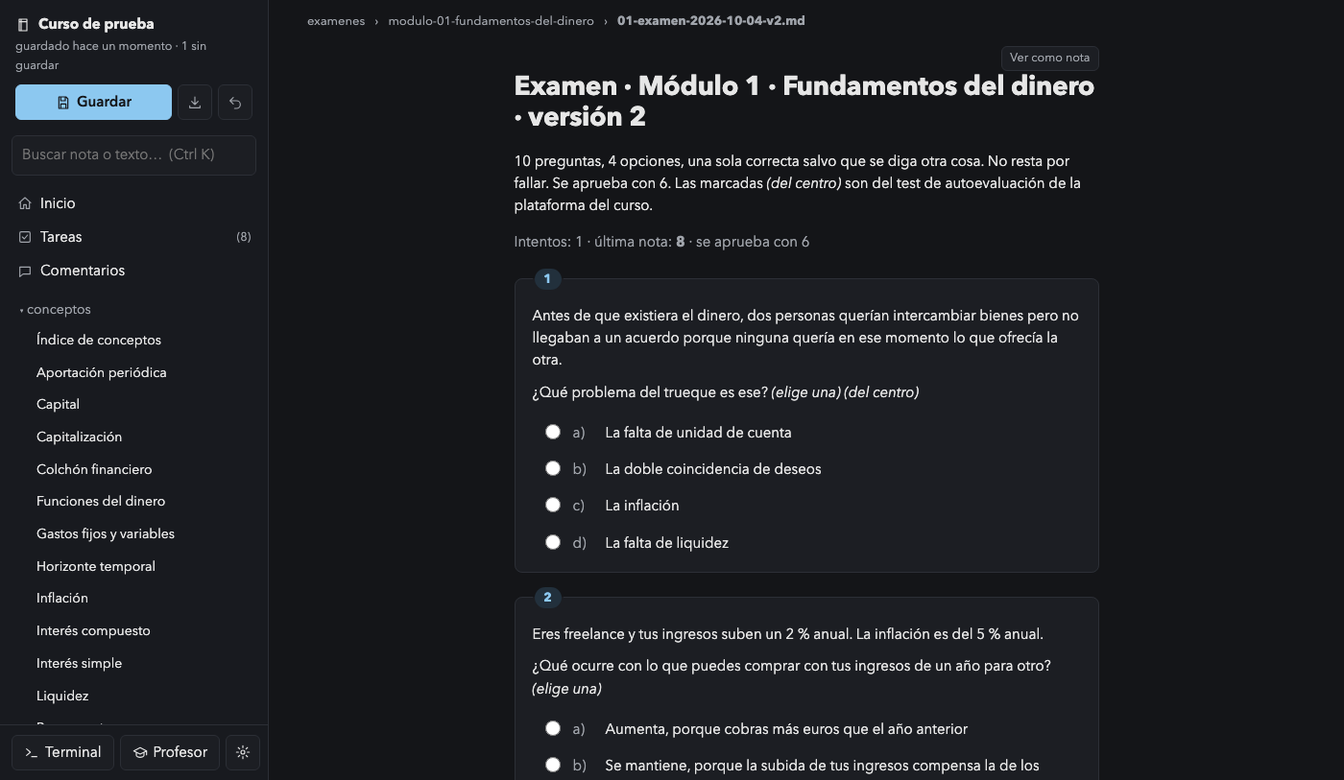
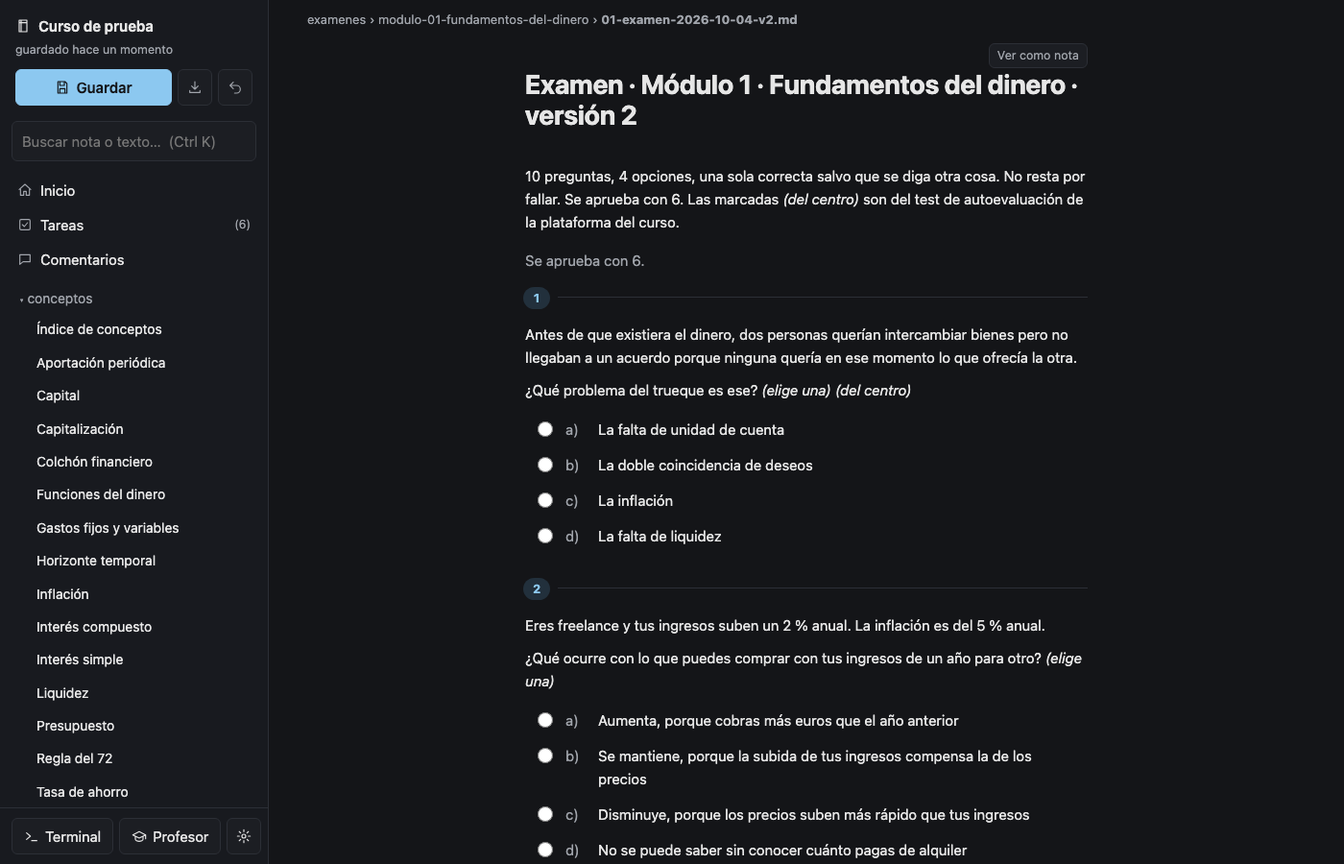
Fase 6, cierre tras la ronda de abogado del diablo
Siete objeciones atendidas: el acortado de rutas en Tareas solo toca rutas de
notas del cuaderno (rompía «50/30/20», fechas y URL; con test); el corte de
textos era de pendientes.md del kit, no de la app; fuente del sistema en vez de
Avenir Next (decisión de Roberto, texto apelmazado); Destapar discreto y una
sola acción rellena por pantalla; paleta clara neutra fuera del crema genérico,
preguntas del examen con reglas y no cajas, columna de 62 ch, sin puntos medios
ni flechas en los textos de la app; cajón móvil fuera del orden de Tab y con
Esc; seis pantallas más sondeadas y capturadas (buscador, editor, guardar,
ajustes, terminal, resultado) con el viewport exacto. Botón del examen:
«Corregir». 0 fallos de contraste en 15 pantallas y dos temas.

diff --git a/public/app.js b/public/app.js
@@ -23,13 +23,13 @@ const icono = n => `<svg class="icono" aria-hidden="true"><use href="#i-${n}"/><
 let titulos = {};   // ruta → título (# …) de cada nota, para enseñar títulos y no nombres de fichero
 const tituloDe = p => titulos[p] || nombreNota(p);
 // Carpeta del kit «modulo-01-fundamentos-del-dinero» o «1.1-el-dinero-y-sus-funciones»: el número separado del nombre
-const nombreCarpeta = k => { const m = k.match(/^((?:modulo|m|bloque|semana|tema|unidad)-?\d+|\d+(?:\.\d+)*)-(.+)$/i); return m ? `${m[1]} · ${m[2].replace(/-/g, ' ')}` : k; };
+const nombreCarpeta = k => { const m = k.match(/^((?:modulo|m|bloque|semana|tema|unidad)-?\d+|\d+(?:\.\d+)*)-(.+)$/i); return m ? `<span class="num">${esc(m[1])}</span> ${esc(m[2].replace(/-/g, ' '))}` : esc(k); };
 
 // ---------- árbol
 function pintarArbol(lista) {
   const raiz = {};
   for (const p of lista) { let n = raiz; const partes = p.split('/'); partes.forEach((s, i) => { if (i === partes.length - 1) (n.__f ??= []).push(p); else n = (n[s] ??= {}); }); }
-  const pintar = (n, abierto) => Object.keys(n).filter(k => k !== '__f').sort((a, b) => a.localeCompare(b, 'es')).map(k => `<details${abierto ? ' open' : ''}><summary title="${esc(k)}">${esc(nombreCarpeta(k))}</summary>${pintar(n[k], false)}</details>`).join('')
+  const pintar = (n, abierto) => Object.keys(n).filter(k => k !== '__f').sort((a, b) => a.localeCompare(b, 'es')).map(k => `<details${abierto ? ' open' : ''}><summary title="${esc(k)}">${nombreCarpeta(k)}</summary>${pintar(n[k], false)}</details>`).join('')
     + (n.__f || []).map(p => `<a class="hoja" href="#/n/${encodeURI(p)}" data-ruta="${esc(p)}" title="${esc(p)}">${esc(tituloDe(p))}</a>`).join('');
   $('#arbol').innerHTML = lista.length ? pintar(raiz, true) : '<p class="vacio">No hay notas en esta carpeta.</p>';
   marcarActiva();
@@ -112,11 +112,11 @@ const verComoNota = ruta => `<p class="cambiar-vista"><button type="button" clas
 async function abrirExamen(ruta) {
   let ex; try { ex = await api(`/api/examen?p=${encodeURIComponent(ruta)}`); } catch (e) { $('#nota').innerHTML = `<p>${esc(e.message)}</p>`; return; }
   const fm = ex.frontmatter || {};
-  const estado = fm.intentos && String(fm.intentos) !== '0' ? `<p class="resumen">Intentos: ${esc(fm.intentos)}${fm.nota !== '' && fm.nota != null ? ` · última nota: <b>${esc(fm.nota)}</b>` : ''}${fm.aprobado ? ` · se aprueba con ${esc(fm.aprobado)}` : ''}</p>` : (fm.aprobado ? `<p class="resumen">Se aprueba con ${esc(fm.aprobado)}.</p>` : '');
+  const estado = fm.intentos && String(fm.intentos) !== '0' ? `<p class="resumen">Intentos: ${esc(fm.intentos)}${fm.nota !== '' && fm.nota != null ? `. Última nota: <b>${esc(fm.nota)}</b>` : ''}${fm.aprobado ? `. Se aprueba con ${esc(fm.aprobado)}` : ''}.</p>` : (fm.aprobado ? `<p class="resumen">Se aprueba con ${esc(fm.aprobado)}.</p>` : '');
   const form = ex.preguntas.map(q => `<fieldset class="pregunta" data-numero="${q.numero}"><legend><span class="numero">${q.numero}</span></legend><div class="enunciado">${q.enunciado}</div>${q.opciones.map(o => `<label class="opcion"><input type="${q.unica ? 'radio' : 'checkbox'}" name="p${q.numero}" value="${o.letra}"${o.marcada ? ' checked' : ''}><span class="letra">${o.letra})</span><span>${o.texto}</span></label>`).join('')}</fieldset>`).join('');
-  const pie = ex.validable ? '<button type="submit" id="validar">Validar</button><span class="pista">Guarda tus respuestas en la nota y las corrige con la herramienta del kit</span>'
+  const pie = ex.validable ? '<button type="submit" id="validar">Corregir</button><span class="pista">Guarda tus respuestas en la nota y las corrige con la herramienta del kit</span>'
     : `<button type="submit" id="validar" class="secundario">Guardar respuestas</button><span class="pista">${esc(ex.motivo || '')}</span>`;
-  $('#nota').innerHTML = `${verComoNota(ruta)}${ex.cabecera}${estado}<form id="examen" class="examen">${form}<footer class="examen-pie">${pie}</footer></form>${ex.resto ? `<section class="historico">${ex.resto}</section>` : ''}`;
+  $('#nota').innerHTML = `${verComoNota(ruta)}${ex.cabecera}${estado}<form id="examen" class="examen">${form}<div class="examen-pie">${pie}</div></form>${ex.resto ? `<section class="historico">${ex.resto}</section>` : ''}`;
   $('#nota').querySelectorAll('.math').forEach(el => { try { katex.render(el.textContent, el, { displayMode: el.dataset.display === '1', throwOnError: false }); } catch { /* texto */ } });
   $('#centro').scrollTop = 0;
   $('#examen').addEventListener('submit', async e => {
@@ -124,12 +124,12 @@ async function abrirExamen(ruta) {
     const respuestas = {};
     for (const f of $('#examen').querySelectorAll('fieldset')) respuestas[f.dataset.numero] = [...f.querySelectorAll('input:checked')].map(i => i.value);
     const sinContestar = Object.values(respuestas).filter(v => !v.length).length;
-    if (ex.validable && sinContestar && !confirm(`Hay ${sinContestar} pregunta${sinContestar === 1 ? '' : 's'} sin contestar. ¿Validar igualmente?`)) return;
+    if (ex.validable && sinContestar && !confirm(`Hay ${sinContestar} pregunta${sinContestar === 1 ? '' : 's'} sin contestar. ¿Corregir igualmente?`)) return;
     $('#validar').disabled = true; avisar(ex.validable ? 'Corrigiendo…' : 'Guardando…');
     let r; try { r = await api('/api/examen/validar', { ruta, respuestas }); } catch (err) { r = { codigo: 1, salida: err.message }; }
     await refrescarInfo(); refrescarContadores();
     abrirNota(ruta);
-    mostrarResultado(r.corregido ? 'Examen validado' : 'Respuestas guardadas', r);
+    mostrarResultado(r.corregido ? 'Examen corregido' : 'Respuestas guardadas', r);
   });
 }
 $('#nota').addEventListener('click', e => { const a = e.target.closest('[data-vista-nota]'); if (!a) return; e.preventDefault(); vistaNota = a.dataset.vistaNota; abrirNota(vistaNota); });
@@ -147,14 +147,14 @@ function pintarTarjeta() {
   const s = tarjetasEstado, n = s.tarjetas.length, i = s.indice, t = s.tarjetas[i];
   const sabidas = s.tarjetas.filter(x => x.sabia === true).length, falladas = s.tarjetas.filter(x => x.sabia === false).length;
   const marca = t.sabia === true ? '<span class="marca ok">✅ la sabías</span>' : t.sabia === false ? '<span class="marca mal">❌ no la sabías</span>' : '';
-  $('#nota').innerHTML = `${verComoNota(s.ruta)}<h1>${esc(s.titulo)}</h1><p class="resumen">${n} tarjetas · ${sabidas} sabidas · ${falladas} falladas</p>
+  $('#nota').innerHTML = `${verComoNota(s.ruta)}<h1>${esc(s.titulo)}</h1><p class="resumen">${n} tarjetas: ${sabidas} sabidas, ${falladas} falladas</p>
     <section class="tarjeta" aria-live="polite">
       <div class="cabecera"><span>Tarjeta ${i + 1} de ${n}</span>${marca}</div>
       <div class="pregunta-tarjeta">${t.pregunta}</div>
       ${s.destapada ? `<div class="respuesta-tarjeta">${t.respuesta}</div><div class="botones"><button type="button" data-tarjeta="sabia">✅ La sabía</button><button type="button" data-tarjeta="no-sabia" class="secundario">❌ No la sabía</button></div>`
       : '<div class="botones"><button type="button" data-tarjeta="destapar">Destapar</button></div>'}
-      <div class="pie"><button type="button" class="secundario pequeno" data-tarjeta="anterior"${i === 0 ? ' disabled' : ''}>← Anterior</button><span class="pista">${esc(t.info)}</span><button type="button" class="secundario pequeno" data-tarjeta="siguiente"${i === n - 1 ? ' disabled' : ''}>Siguiente →</button></div>
-    </section><p class="pista">Espacio destapa · 1 la sabía · 2 no la sabía · ← → cambian de tarjeta</p>`;
+      <div class="pie"><button type="button" class="secundario pequeno" data-tarjeta="anterior"${i === 0 ? ' disabled' : ''}>Anterior</button><span class="pista">${esc(t.info)}</span><button type="button" class="secundario pequeno" data-tarjeta="siguiente"${i === n - 1 ? ' disabled' : ''}>Siguiente</button></div>
+    </section><p class="pista">Teclado: espacio destapa, 1 la sabía, 2 no la sabía, flechas para cambiar de tarjeta</p>`;
   $('#nota').querySelectorAll('.math').forEach(el => { try { katex.render(el.textContent, el, { displayMode: el.dataset.display === '1', throwOnError: false }); } catch { /* texto */ } });
   const principal = $('#nota [data-tarjeta="destapar"], #nota [data-tarjeta="sabia"]'); if (principal) principal.focus();
 }
@@ -234,7 +234,7 @@ function abrirTerminal(modo) {
     fit = new FitAddon.FitAddon(); term.loadAddon(fit); term.open($('#terminal'));
     ws = new WebSocket(wsUrl(modo === 'profesor' ? '/pty?profesor=1' : '/pty'));
     ws.onmessage = e => term.write(e.data);
-    ws.onclose = () => term && term.write('\r\n\x1b[90m[terminal cerrada]\x1b[0m\r\n');
+    ws.onclose = () => term && term.write('\r\n[terminal cerrada]\r\n');
     term.onData(d => ws.readyState === 1 && ws.send(d));
     const redim = () => { fit.fit(); ws.readyState === 1 && ws.send('\u0001' + JSON.stringify({ cols: term.cols, rows: term.rows })); };
     ws.onopen = redim; new ResizeObserver(redim).observe($('#terminal'));
@@ -249,7 +249,7 @@ $('#btn-profesor').onclick = () => abrirTerminal('profesor');
 
 // ---------- cuadernos (pantalla de inicio)
 const hace = iso => { if (!iso) return 'nunca'; const d = (Date.now() - new Date(iso)) / 864e5; if (d < 1 / 24) return 'hace un momento'; if (d < 1) return `hace ${Math.round(d * 24)} h`; if (d < 30) return `hace ${Math.round(d)} día${Math.round(d) === 1 ? '' : 's'}`; return `el ${new Date(iso).toLocaleDateString('es')}`; };
-const textoGit = g => !g ? 'sin repositorio' : `guardado ${hace(g.ultimo)}${g.cambios ? ` · ${g.cambios} sin guardar` : ''}${g.sinSubir ? ` · ${g.sinSubir} sin subir` : ''}`;
+const textoGit = g => !g ? 'sin repositorio' : `guardado ${hace(g.ultimo)}${g.cambios ? `, ${g.cambios} sin guardar` : ''}${g.sinSubir ? `, ${g.sinSubir} sin subir` : ''}`;
 async function abrirCuadernos() {
   rutaActual = null; $('#nota').hidden = true; $('#panel').hidden = false;
   $('#miga').innerHTML = '<strong>Cuadernos</strong>';
@@ -319,8 +319,10 @@ function abrirAjustes() {
 }
 function cerrarAjustes() { $('#ajustes').hidden = true; if (foco) foco.focus(); }
 $('#btn-ajustes').onclick = abrirAjustes;
-$('#btn-menu').onclick = () => { const l = $('#lateral'); l.classList.toggle('abierto'); $('#btn-menu').setAttribute('aria-expanded', l.classList.contains('abierto')); };
-$('#lateral').addEventListener('click', e => { if (e.target.closest('a') && window.innerWidth <= 760) $('#lateral').classList.remove('abierto'); });
+function cajon(abrir) { const l = $('#lateral'); l.classList.toggle('abierto', abrir); $('#btn-menu').setAttribute('aria-expanded', String(abrir)); if (!abrir && window.innerWidth <= 760) $('#btn-menu').focus(); }
+$('#btn-menu').onclick = () => cajon(!$('#lateral').classList.contains('abierto'));
+document.addEventListener('keydown', e => { if (e.key === 'Escape' && $('#lateral').classList.contains('abierto')) cajon(false); });
+$('#lateral').addEventListener('click', e => { if (e.target.closest('a') && window.innerWidth <= 760) cajon(false); });
 $('#ajustes-cerrar').onclick = cerrarAjustes;
 $('#ajustes form').addEventListener('change', async () => {
   info.configuracion = await api('/api/configuracion', { tema: $('#ajustes-tema').value, letra: $('#ajustes-letra').value, fuente: $('#ajustes-fuente').value, comando_agente: $('#ajustes-comando').value });

diff --git a/public/estilo.css b/public/estilo.css
@@ -1,12 +1,12 @@
 /* cuaderno-app · hoja de estilos. Tema: papel, tinta y un subrayador. Los tokens van por tema; el contenido manda. */
 :root {
-  --papel: #fcfbf7; --fondo: #f6f4ee; --lateral: #efece4; --tinta: #1b1b1f; --tinta-suave: #5a5e66; --linea: #e2dfd6;
+  --papel: #fbfbfc; --fondo: #f2f3f5; --lateral: #eaecef; --tinta: #1b1b1f; --tinta-suave: #5a5e66; --linea: #dcdfe4;
   --acento: #1e5a96; --acento-suave: #e3ecfa; --sobre-acento: #ffffff; --ok: #15803d; --aviso: #7a4a00; --mal: #b91c1c;
   --terminal-fondo: #1b1d23; --marca: #fff3a8;
   --c-info: var(--acento); --c-question: #6d28d9; --c-warning: var(--aviso); --c-danger: var(--mal); --c-success: var(--ok);
   --c-quote: #4b5563; --c-example: #0e7490; --c-tip: #0f766e; --c-comment: #9a3412;
   --radio: 6px; --radio-bloque: 8px;
-  --fuente: "Avenir Next", "Segoe UI Variable Text", "Segoe UI", system-ui, -apple-system, sans-serif;
+  --fuente: system-ui, -apple-system, "Segoe UI", Roboto, sans-serif;   /* la del sistema: afinada para leer en cada plataforma */
   --serif: Charter, "Iowan Old Style", "Palatino Linotype", Georgia, serif;
   --mono: "JetBrains Mono", "Fira Code", Menlo, Consolas, "DejaVu Sans Mono", monospace;
   --sombra: 0 10px 30px rgba(20, 20, 30, .12);
@@ -31,7 +31,7 @@
 
 * { box-sizing: border-box; }
 [hidden] { display: none !important; }
-html, body { margin: 0; height: 100%; background: var(--fondo); color: var(--tinta); font: 15px/1.55 var(--fuente); }
+html, body { margin: 0; height: 100%; background: var(--fondo); color: var(--tinta); font: 15px/1.6 var(--fuente); }
 :focus-visible { outline: 2px solid var(--acento); outline-offset: 2px; }
 @media (prefers-reduced-motion: no-preference) { .bloque, .respuesta-tarjeta { transition: background-color .15s ease; } }
 .oculto { position: absolute; width: 1px; height: 1px; overflow: hidden; clip: rect(0 0 0 0); white-space: nowrap; }
@@ -40,7 +40,7 @@ html, body { margin: 0; height: 100%; background: var(--fondo); color: var(--tin
 .icono { width: 16px; height: 16px; flex: none; vertical-align: -3px; fill: none; stroke: currentColor; stroke-width: 1.75; stroke-linecap: round; stroke-linejoin: round; }
 .vacio, .pista { color: var(--tinta-suave); font-size: 13px; }
 .pista { margin-right: auto; align-self: center; }
-mark { background: var(--marca); color: inherit; border-radius: 2px; }
+mark { background: var(--marca); color: var(--tinta); border-radius: 2px; }
 code, kbd { font-family: var(--mono); font-size: .88em; }
 kbd { border: 1px solid var(--linea); border-bottom-width: 2px; border-radius: 4px; padding: 0 5px; background: var(--papel); }
 
@@ -76,6 +76,7 @@ input[type="checkbox"], input[type="radio"] { accent-color: var(--acento); width
 #arbol { flex: 1; overflow: auto; padding: 4px 8px 12px; font-size: 14px; }
 #arbol details { margin-left: 6px; }
 #arbol summary { cursor: pointer; padding: 4px 6px; color: var(--tinta-suave); border-radius: var(--radio); list-style: none; }
+#arbol summary .num { opacity: .7; font-variant-numeric: tabular-nums; }
 #arbol summary::before { content: "▸ "; font-size: 11px; }
 #arbol details[open] > summary::before { content: "▾ "; }
 #arbol .hoja { margin-left: 14px; display: block; }
@@ -86,14 +87,15 @@ input[type="checkbox"], input[type="radio"] { accent-color: var(--acento); width
 .pie-lateral #btn-ajustes { flex: 0 0 auto; padding: 6px 9px; }
 
 #centro { overflow: auto; min-height: 0; min-width: 0; padding: 0 0 40px; }
-#miga { position: sticky; top: 0; background: var(--fondo); padding: 12px 40px 8px; font-size: 13px; color: var(--tinta-suave); z-index: 2; display: flex; align-items: center; gap: 10px; }
-#btn-menu { display: none; }
-#nota, #panel { max-width: calc(70ch + 80px); margin: 0 auto; padding: 8px 40px 40px; }
+.miga-barra { position: sticky; top: 0; background: var(--fondo); z-index: 2; display: flex; align-items: center; gap: 8px; padding: 10px 16px 6px 40px; }
+#miga { font-size: 13px; color: var(--tinta-suave); min-width: 0; overflow: hidden; text-overflow: ellipsis; white-space: nowrap; }
+#btn-menu { display: none; padding: 6px 8px; }
+#nota, #panel { max-width: calc(62ch + 80px); margin: 0 auto; padding: 8px 40px 40px; }   /* 62 ch ≈ 75 caracteres reales por línea */
 #nota h1, #panel h1 { font-size: 28px; line-height: 1.15; margin: 6px 0 18px; font-weight: 700; letter-spacing: -.01em; }
 #nota h2 { font-size: 21px; margin: 32px 0 10px; border-bottom: 1px solid var(--linea); padding-bottom: 4px; }
 #nota h3 { font-size: 17px; margin: 24px 0 8px; }
-#nota a { color: var(--acento); padding: 2px 0; }
-#nota a.wiki { text-decoration: none; border-bottom: 1px dotted var(--acento); padding: 2px 0; }   /* objetivo ≥ 24 px de alto sin cambiar la línea */
+#nota a { color: var(--acento); padding: 3px 0; }   /* objetivo ≥ 24 px de alto sin cambiar la línea */
+#nota a.wiki { text-decoration: none; border-bottom: 1px dotted var(--acento); }
 #nota a.wiki.roto { color: var(--mal); border-bottom-style: dashed; }
 #nota table { border-collapse: collapse; width: 100%; margin: 10px 0; font-size: 14px; }
 #nota th, #nota td { border: 1px solid var(--linea); padding: 6px 10px; text-align: left; }
@@ -126,8 +128,9 @@ input[type="checkbox"], input[type="radio"] { accent-color: var(--acento); width
 .callout-warning, .callout-caution { --c: var(--c-warning); } .callout-danger, .callout-bug, .callout-error { --c: var(--c-danger); }
 .callout-quote { --c: var(--c-quote); } .callout-example { --c: var(--c-example); } .callout-tip { --c: var(--c-tip); }
 .callout-comment { --c: var(--c-comment); background: color-mix(in srgb, var(--c-comment) 6%, var(--papel)); }
-.callout-icono::before { content: "ℹ"; } .callout-success .callout-icono::before { content: "✓"; } .callout-question .callout-icono::before { content: "?"; }
-.callout-warning .callout-icono::before { content: "⚠"; } .callout-quote .callout-icono::before { content: "❝"; } .callout-example .callout-icono::before { content: "✎"; }
+.callout-icono { font-variant-emoji: text; }
+.callout-icono::before { content: "ℹ\FE0E"; } .callout-success .callout-icono::before { content: "✓"; } .callout-question .callout-icono::before { content: "?"; }
+.callout-warning .callout-icono::before { content: "⚠\FE0E"; } .callout-quote .callout-icono::before { content: "❝"; } .callout-example .callout-icono::before { content: "✎"; }
 .callout-comment .callout-icono::before { content: "✎"; } .callout-danger .callout-icono::before { content: "✕"; } .callout-tip .callout-icono::before { content: "✦"; }
 
 /* bloques editables */
@@ -160,7 +163,8 @@ input[type="checkbox"], input[type="radio"] { accent-color: var(--acento); width
 .nueva-tarea input { flex: 1; padding: 8px 12px; }
 
 /* examen como formulario */
-.examen fieldset.pregunta { border: 1px solid var(--linea); border-radius: var(--radio-bloque); background: var(--papel); padding: 10px 18px 12px; margin: 14px 0; }
+.examen fieldset.pregunta { border: 0; border-top: 1px solid var(--linea); padding: 8px 0 14px; margin: 10px 0; }
+.examen legend { padding: 0 8px 0 0; margin-left: -2px; }
 .examen legend .numero { display: inline-block; background: var(--acento-suave); color: var(--acento); border-radius: 999px; min-width: 28px; text-align: center; padding: 1px 9px; font-weight: 650; font-size: 13px; }
 .examen .enunciado > .bloque { margin: 0; padding: 0; }
 .examen .enunciado p { margin: 6px 0 10px; }
@@ -182,13 +186,13 @@ input[type="checkbox"], input[type="radio"] { accent-color: var(--acento); width
 .respuesta-tarjeta { border-top: 1px dashed var(--linea); padding-top: 12px; margin-bottom: 14px; }
 .respuesta-tarjeta .bloque { margin: 0; padding: 0; }
 .tarjeta .botones { display: flex; gap: 10px; flex-wrap: wrap; }
-.tarjeta .botones button { padding: 9px 18px; font-size: 15px; }
-.tarjeta .botones [data-tarjeta="destapar"], .tarjeta .botones [data-tarjeta="sabia"] { background: var(--acento); color: var(--sobre-acento); border-color: var(--acento); font-weight: 600; }
+.tarjeta .botones button { padding: 7px 16px; font-size: 15px; }
+.tarjeta .botones [data-tarjeta="sabia"] { background: var(--acento); color: var(--sobre-acento); border-color: var(--acento); font-weight: 600; }   /* la decisión es «la sabía / no la sabía»; Destapar es solo un paso */
 
 /* terminal */
 #terminal-panel { grid-column: 2; min-width: 0; overflow: hidden; height: 320px; background: var(--terminal-fondo); border-top: 1px solid #000; display: flex; flex-direction: column; }
-.terminal-barra { display: flex; justify-content: space-between; align-items: center; color: #9aa0a6; font-size: 12px; padding: 4px 14px; background: #00000033; }
-.terminal-barra button { background: none; border: none; color: #9aa0a6; padding: 2px 8px; min-width: 32px; min-height: 28px; }
+.terminal-barra { display: flex; justify-content: space-between; align-items: center; color: #b4b9c2; font-size: 12.5px; padding: 4px 14px; background: #0b0c10; }
+.terminal-barra button { background: none; border: none; color: #b4b9c2; padding: 2px 8px; min-width: 32px; min-height: 28px; }
 #terminal { flex: 1; padding: 10px 14px 6px; min-height: 0; }
 .xterm { height: 100%; }
 
@@ -210,12 +214,12 @@ input[type="checkbox"], input[type="radio"] { accent-color: var(--acento); width
 /* estrecho: la barra lateral se despliega sobre el contenido con un botón; nada se corta */
 @media (max-width: 760px) {
   #app { grid-template-columns: 1fr; }
-  #lateral { position: fixed; inset: 0 20% 0 0; z-index: 10; transform: translateX(-100%); box-shadow: var(--sombra); }
-  #lateral.abierto { transform: none; }
-  @media (prefers-reduced-motion: no-preference) { #lateral { transition: transform .2s ease; } }
+  #lateral { position: fixed; inset: 0 20% 0 0; z-index: 10; transform: translateX(-100%); visibility: hidden; box-shadow: var(--sombra); }
+  #lateral.abierto { transform: none; visibility: visible; }
+  @media (prefers-reduced-motion: no-preference) { #lateral { transition: transform .2s ease, visibility .2s; } }
   #btn-menu { display: inline-flex; }
   #nota, #panel { padding: 8px 16px 40px; }
-  #miga { padding: 10px 16px 6px; }
+  .miga-barra { padding: 8px 12px 6px; }
   .bloque { margin: 0; padding: 0 4px; }
   .bloque .acciones { position: static; justify-content: flex-end; margin-bottom: 2px; }
   #nota table { display: block; overflow-x: auto; }

diff --git a/cuaderno.js b/cuaderno.js
@@ -133,11 +133,17 @@ class Cuaderno {
       if (tipo === 'examen' || tipo === 'flashcards') continue;   // se contestan en su nota, no son tareas
       const ls = this.lineas(src);
       const items = [];
-      ls.forEach((l, i) => { const m = l.match(RE_CASILLA); if (!m) return; const texto = m[3].slice(2).replace(/\[\[([^\]|]*\|)?([^\]]*)\]\]/g, '$2').replace(/(?:[\w.-]+\/)+([\w.-]+)/g, '$1'); items.push({ linea: i, hecha: m[2] !== ' ', texto, html: this.md.renderInline(texto, {}) }); });
+      ls.forEach((l, i) => { const m = l.match(RE_CASILLA); if (!m) return; const texto = this.acortarRutas(m[3].slice(2).replace(/\[\[([^\]|]*\|)?([^\]]*)\]\]/g, '$2')); items.push({ linea: i, hecha: m[2] !== ' ', texto, html: this.md.renderInline(texto, {}) }); });
       if (items.length) grupos.push({ ruta: p, generado: /^> Lo genera tu profesor/m.test(ls.slice(0, 6).join('\n')), items });
     }
     grupos.sort((a, b) => (a.ruta === 'tareas.md' ? -1 : b.ruta === 'tareas.md' ? 1 : a.generado - b.generado));
     return grupos;
+  }
+  // Una ruta de nota del cuaderno dentro de un texto se deja en su nombre; cualquier otra cosa con barras
+  // («regla 50/30/20», «04/10/2026», una URL) se queda como está.
+  acortarRutas(texto) {
+    const notas = new Set(this.listar().map(p => p.replace(/\.md$/, '')));
+    return texto.replace(/[\w.-]+(?:\/[\w.-]+)+/g, t => notas.has(t.replace(/\.md$/, '')) ? t.replace(/\.md$/, '').split('/').pop() : t);
   }
   comentarios() {
     const lista = [];

diff --git a/tests/cuaderno.test.js b/tests/cuaderno.test.js
@@ -117,6 +117,7 @@ test('títulos: el # de cada nota, sin wikilinks; las tareas llevan el Markdown 
   assert.equal(t['conceptos/interes.md'], 'Interés'); assert.equal(t['inicio.md'], 'Mi curso'); assert.equal(t['sesiones/01-01-01-sesion.md'], '1.1 La sesión');
   const item = cu.tareas().find(g => g.ruta === 'sesiones/01-01-01-sesion.md').items[1];
   assert.equal(item.texto, 'Leer interes'); assert.equal(item.html, 'Leer interes');
+  assert.equal(cu.acortarRutas('Ver conceptos/interes y sesiones/01-01-01-sesion.md: regla 50/30/20, el 04/10/2026, IVA/IRPF y https://x.com/a'), 'Ver interes y 01-01-01-sesion: regla 50/30/20, el 04/10/2026, IVA/IRPF y https://x.com/a');
 }));
 
 test('recorrido: cuenta notas, enlaces rotos y fallos', con({}, (c, cu) => {

diff --git a/public/index.html b/public/index.html
@@ -44,7 +44,7 @@
     </footer>
   </aside>
   <main id="centro">
-    <div class="miga-barra"><button type="button" id="btn-menu" class="secundario" aria-label="Abrir el menú" aria-controls="lateral"><svg class="icono" aria-hidden="true"><use href="#i-menu"/></svg></button><div id="miga" aria-label="Ruta de la nota"></div></div>
+    <div class="miga-barra"><button type="button" id="btn-menu" class="secundario" aria-label="Abrir el menú" aria-controls="lateral" aria-expanded="false"><svg class="icono" aria-hidden="true"><use href="#i-menu"/></svg></button><div id="miga" aria-label="Ruta de la nota"></div></div>
     <article id="nota" tabindex="-1"></article>
     <section id="panel" hidden></section>
   </main>

diff --git a/docs/diseno/critica-2026-10-07.md b/docs/diseno/critica-2026-10-07.md
@@ -1,6 +1,6 @@
 # cuaderno-app · crítica de diseño (fase 6)
 
-**Fecha:** 2026-10-07 · **Alcance:** la app completa sobre un curso de prueba montado con el motor del kit · **Viewports:** 1400×900 (escritorio, el objetivo), 390×844 (solo para comprobar que no rompe) · **Temas:** oscuro y claro · **Pantallas:** portada, concepto, sesión, examen, tarjetas, tareas, comentarios, cuadernos.
+**Fecha:** 2026-10-07 · **Alcance:** la app completa sobre un curso de prueba montado con el motor del kit · **Viewports:** 1400×900 (escritorio, el objetivo), 390×844 (solo para comprobar que no rompe) · **Temas:** oscuro y claro · **Pantallas:** portada, concepto, sesión, examen, tarjetas, tareas, comentarios, cuadernos; tras la ronda de abogado del diablo, también buscador con resultados, editor de bloque, diálogo de guardar, ajustes, terminal y diálogo de resultado (estas seis solo tienen captura de después).
 
 **Método:** las skills `ux-ui-audit` (sondas `probe-core`, `probe-heuristics`, `probe-perception`, `probe-focus` tras pulsar Tab de verdad, `probe-ltr`, ejecutadas en Chrome por el protocolo de DevTools), `design-critique`, `accessibility-review` (WCAG 2.1/2.2 AA) y `ux-copy` para la lectura; `frontend-design` para el plan y los cambios. Cada hallazgo lleva su medida o su cita. Capturas de antes en `docs/capturas/antes/`, de después en `docs/capturas/despues/`.
 
@@ -48,9 +48,10 @@ ARREGLO: botón de menú que despliega la barra sobre el contenido; sin márgene
 EVIDENCIA: «01-01-01-inflacion-cuanto-tarda-en-perder-la-mitad.html» recortado 137 px (`truncation.clipped`); «interes-compuesto», «modulo-01-fundamentos-del-dinero». El alumno piensa en «Interés compuesto» y «Módulo 1», como en la portada.
 ARREGLO: la app enseña el título (`# …`) de cada nota y deja el nombre de fichero en el `title`; las carpetas del kit se leen igual que su nombre, pero con el guion y el número como separador visual.
 
-**09 · Mayor · tareas.** El texto de cada casilla sale en Markdown crudo y cortado a 200 caracteres sin señal.
+**09 · Mayor · tareas.** El texto de cada casilla sale en Markdown crudo y con la ruta entera de la nota.
 EVIDENCIA: «**Falta material del curso** · sesiones/modulo-01-fundamentos-del-dinero/1.1-el-dinero-y-sus-funciones/01-01-01-el-dinero-y-sus-funciones — el patrón oro (diapositiva 6): el material solo trae el títu».
-ARREGLO: pintar el Markdown en línea, acortar las rutas a su nombre de nota y no cortar.
+CAPA DE DATOS: el corte a «títu» no es de la app: así está escrito en `estudio/pendientes.md`, que genera `guardar.js` del kit (la app no corta desde la fase 6; se comprobó al revisar). Es un aviso para el kit.
+ARREGLO: pintar el Markdown en línea y dejar en su nombre solo lo que sea ruta de una nota del cuaderno (nunca «50/30/20», fechas ni URL: hay test).
 
 **10 · Mayor · jerarquía de acciones.** Las tres acciones de la barra (Guardar, Traer, Deshacer) tienen el mismo peso visual, y Guardar es la única que el alumno usa cada día.
 EVIDENCIA: `fitts.primaryActions`: los tres con 30 px de alto y el mismo estilo; `similarity.link-styled-control`: 9 tratamientos distintos para controles del mismo rango.
@@ -67,9 +68,9 @@ ARREGLO: columna de 70 ch.
 **13 · Nota · copia.** Las pistas mezclan punto final y sin punto (`punctuation.consistent = false`); «sin git» en la pantalla de cuadernos no dice qué implica; el resultado de Validar titula «Examen corregido» mientras el botón dice «Validar».
 ARREGLO: pistas sin punto final; «No es un repositorio: desde aquí no se puede guardar»; el título del resultado, «Examen validado» con la salida del kit debajo (el botón «Validar» es decisión del plan §6; cambiarlo a «Corregir» queda para Roberto).
 
-**14 · Nota · landmarks.** Hay 5 `header` y 5 `footer` por pantalla (tarjeta, modales, barra); un lector de pantalla los anuncia como regiones.
+**14 · Nota · `header` y `footer` repetidos.** Hay 5 de cada por pantalla (tarjeta, modales, barra). Dentro de `aside`, `article` o `section` no son regiones (HTML-AAM), así que no es un fallo de accesibilidad: es ruido semántico.
 EVIDENCIA: `structure.landmarks: header=5 footer=5`.
-ARREGLO: `div` en los que no son regiones de página.
+ARREGLO: `div` en los que no son cabecera ni pie de página.
 
 **15 · Nota · identidad visual.** Paleta y forma son las de cualquier app: azul `#2f6feb`, crema `#f7f6f2`, tarjetas con el mismo radio (10 px) para todo, sombra gris. `frontend-design` las lista como señales de plantilla.
 ARREGLO: ver el plan de diseño.
@@ -99,7 +100,7 @@ ARREGLO: no pintar propiedades vacías.
 | `--aviso` | `#7a4a00` | `#e0a040` |
 | `--ok` / `--mal` | `#15803d` / `#b91c1c` | `#86efac` / `#fca5a5` |
 
-**Tipografía.** Una familia para la interfaz y la lectura: la del sistema, elegida en este orden para que sea la misma en Mac y Windows: `"Avenir Next", "Segoe UI Variable Text", "Segoe UI", system-ui`. Opción de lectura con serifa (ajuste del usuario): `Charter, "Iowan Old Style", Georgia`, con 1,65 de interlineado. Escala: 28 / 21 / 17 / 15 / 13. Títulos en 650–700, nada en mayúsculas, ningún "eyebrow".
+**Tipografía.** Una familia para la interfaz y la lectura: la del sistema (`system-ui`: SF en Mac, Segoe en Windows), que está afinada para leer en cada plataforma y funciona siempre. Opción de lectura con serifa (ajuste del usuario): `Charter, "Iowan Old Style", Georgia`, con 1,65 de interlineado. Escala: 28 / 21 / 17 / 15 / 13. Títulos en 650–700, nada en mayúsculas, ningún "eyebrow".
 
 **Forma.** Radio 6 px en controles, 8 px en bloques de contenido, 10 px solo en la tarjeta de flashcards (que sí es una tarjeta). Sin sombras salvo en los modales y la tarjeta. Las listas (tareas, comentarios, cuadernos) se separan con reglas, no con cajas. Columna de lectura de 70 ch.
 
@@ -107,7 +108,14 @@ ARREGLO: no pintar propiedades vacías.
 
 **Movimiento.** Ninguno automático. Solo lo que responde a una acción: el bloque resaltado al llegar por búsqueda y la tarjeta al destapar (sin animación si `prefers-reduced-motion`).
 
-**Revisión contra lo genérico:** el plan inicial tenía crema `#f7f6f2` + azul SaaS + tarjetas uniformes (señales 1 y 4 de la lista de `frontend-design`). Cambiado: el papel es más neutro y menos cálido, el acento es una tinta concreta y no un azul de botón, las cajas se sustituyen por reglas donde no hay una tarjeta real.
+**Revisión contra lo genérico (los cinco rasgos de `frontend-design`, revisada tras la ronda de abogado del diablo):**
+1. Crema cálido con acento terracota: la primera versión de este plan dejó `#f6f4ee`, casi el `#F4F1EA` de la lista. Cambiado a un gris neutro frío (`#f2f3f5` / `#fbfbfc`). El acento no es terracota.
+2. Negro con un acento ácido: no. El oscuro es `#141518` con azul cielo apagado.
+3. Hoja de periódico con filetes y radio cero: no.
+4. Todo en tarjetas iguales: las listas (tareas, comentarios, cuadernos) y las preguntas del examen van con reglas, no con cajas; la única tarjeta es la de flashcards, con radio distinto (10 px) y sombra, porque es una tarjeta. Se acepta a sabiendas el borde de los callouts: es el formato visual que el alumno conoce de Obsidian.
+5. Chrome de plantilla: sin eyebrows ni mayúsculas; los puntos medios y las flechas en texto de la app se han quitado («4 tarjetas: 0 sabidas, 0 falladas», «Siguiente»); los que quedan están dentro del contenido del kit («Examen · Módulo 1», «Caja 1 de 5 · te toca…») y la app no toca el contenido.
+
+**Tipografía, decisión final:** se probó Avenir Next y Roberto la vio «muy pegada» en texto corrido (geométrica, sin tamaño óptico a 15 px). Se vuelve a la fuente del sistema, con interlineado 1,6.
 
 ## Por dónde empezar (impacto ÷ esfuerzo)
 
@@ -122,21 +130,24 @@ ARREGLO: no pintar propiedades vacías.
 
 | Medida | Antes | Después |
 |---|---|---|
-| Contraste, modo oscuro (8 pantallas, 1060 comprobaciones) | 4 combinaciones fallan (2,52 · 2,72 · 2,85 · 3,93:1) | **0 fallos** |
-| Contraste, modo claro | 9 combinaciones fallan (3,99 · 4,23 · 4,24:1) | **0 fallos** |
-| Foco visible (tras Tab) | 2px, 6,91:1 oscuro / 3,90:1 claro | 2px, **9,64:1 oscuro / 6,01:1 claro** |
-| Objetivos < 24 px no exentos | 41 en el examen, 20 en portada | **0 en portada, 1 en concepto** (un enlace normal dentro de negrita, 20 px) |
+| Contraste, modo oscuro | 4 combinaciones fallan en 8 pantallas (2,52 · 2,72 · 2,85 · 3,93:1) | **0 fallos en 15 pantallas, 2380 comprobaciones** |
+| Contraste, modo claro | 9 combinaciones fallan (3,99 · 4,23 · 4,24:1) | **0 fallos en 14 pantallas, 2315 comprobaciones** |
+| Foco visible (tras Tab) | 2px, 6,91:1 oscuro / 3,90:1 claro | 2px, **9,64:1 oscuro / 6,01:1 claro / 10,12:1 móvil** |
+| Objetivos < 24 px no exentos | 41 en el examen, 20 en portada | 11, todos enlaces de texto dentro de listas y tablas del contenido (22–23 px de alto; la sonda no los marca como exentos porque no están en un párrafo, pero son enlaces en línea) y los botones de radio del examen (16 px; el objetivo real es su etiqueta, 32 px) |
 | Estados definidos en CSS | faltan `active`, `disabled`, `checked` | faltan solo `checked`, `aria-expanded`, `aria-busy` (no se usan) |
 | Landmarks `header`/`footer` por pantalla | 5 / 5 | **1 / 1** |
-| Desbordamiento horizontal a 390 px | texto cortado (captura) | **ninguno**, menú para abrir la barra |
-| Familia tipográfica | `ui-sans-serif` | `Avenir Next` (Mac) / `Segoe UI Variable` (Windows), 7 tamaños |
+| Desbordamiento horizontal a 390 px | texto cortado (captura) | **ninguno** (`overflowingElements: 0` a 390×844), menú para abrir la barra; la barra cerrada queda fuera del orden de Tab y Esc la cierra |
+| Familia tipográfica | `ui-sans-serif`, interlineado 1,6 | la del sistema (`system-ui`), interlineado 1,6; se probó Avenir Next y se descartó por apelmazar el texto corrido (revisión de Roberto, 2026-10-07) |
 | Árbol | nombres de fichero | títulos de las notas (`# …`), fichero en el `title` |
-| Tareas | Markdown crudo, cortado a 200 caracteres | pintado en línea, rutas acortadas, sin corte |
+| Tareas | Markdown crudo, rutas enteras | pintado en línea, rutas de notas en su nombre; el corte de algunos textos viene de `pendientes.md` (kit) |
+| Columna de lectura | ≈ 98 caracteres | 62 ch ≈ 75 caracteres reales |
 
-Sin cambios (contenido del kit, no de la app): los emojis dentro de las notas, el nombre del curso repetido en la portada, la cabecera «Lo genera tu profesor…».
+Sin cambios (contenido del kit, no de la app): los emojis dentro de las notas, el nombre del curso repetido en la portada, la cabecera «Lo genera tu profesor…», los textos cortados de `pendientes.md`, los puntos medios de los títulos del kit.
 
-Pendiente de decisión de Roberto: «Validar» frente a «Corregir» en el botón del examen (hallazgo 13).
+Dudas que quedan: la terminal en Chrome headless se cierra nada más abrirse («[terminal cerrada]» en la captura 16); con un navegador normal no se ha reproducido en esta fase. Se mira en la fase 7, que es la de la terminal.
 
-Capturas: `docs/capturas/antes/` y `docs/capturas/despues/` (mismos nombres, misma pantalla, mismo tamaño).
+Decidido (Roberto, 2026-10-07): el botón del examen dice «Corregir», como el kit y como el resultado (hallazgo 13). Y el botón «Destapar» de las tarjetas pasa a discreto: la decisión es «la sabía / no la sabía».
 
-Rondas de abogado del diablo sobre este documento: ninguna todavía; los cambios están aplicados y en el commit de la fase 6, lo que no convenza se revierte.
+Capturas: `docs/capturas/antes/` (11) y `docs/capturas/despues/` (17: las 11 con el mismo nombre y tamaño, 1400×900 y 390×844, más las seis pantallas añadidas tras la ronda).
+
+Rondas de abogado del diablo: 2026-10-07, 7 objeciones, todas atendidas en el mismo día: (1) el corte de tareas era del kit, no de la app; (2) el acortado de rutas rompía «50/30/20» y fechas: ahora solo acorta rutas de notas, con test; (3) Avenir Next fuera; (4) Destapar discreto y una sola acción rellena por pantalla; (5) revisión de los cinco rasgos genéricos y paleta clara neutra; (6) capturas al tamaño exacto, columna de 62 ch, hallazgo 14 reformulado como nota; (7) seis pantallas más sondeadas y capturadas, cajón móvil fuera del orden de Tab.

diff --git a/docs/planes/plan-vivo.md b/docs/planes/plan-vivo.md
@@ -5,13 +5,14 @@
 ## 0. Estado
 
 **Ahora**
-- Fase 6 cerrada el 2026-10-07: crítica con cifras en `docs/diseno/critica-2026-10-07.md` (18 hallazgos), cambios aplicados (tokens por tema, iconos SVG, títulos en el árbol, tareas pintadas, jerarquía de acciones, estados, móvil mínimo, copia) y medidos otra vez: 0 fallos de contraste en los dos temas, foco 9,6:1 / 6,0:1. Capturas antes y después en `docs/capturas/`. 46 tests.
+- Fase 6 cerrada el 2026-10-07 tras la ronda de abogado del diablo (7 objeciones atendidas): crítica con cifras en `docs/diseno/critica-2026-10-07.md` (18 hallazgos), cambios aplicados y medidos otra vez: 0 fallos de contraste en 15 pantallas y dos temas, foco 9,6:1 / 6,0:1, sin desbordamiento a 390 px. Decisiones de Roberto: fuente del sistema, Destapar discreto, botón «Corregir». Capturas antes y después en `docs/capturas/`. 46 tests.
 - Siguiente: fase 7 (terminal cuidada, botón Profesor y análisis del chat como *channel*).
 
 **Después:** fase 8 (inbox).
 
 **Inbox**
-- Decidir el texto del botón del examen: «Validar» (plan §6) o «Corregir» (lo que hace el kit y lo que dice el resultado). Hallazgo 13 de la crítica.
+- Fase 7: la terminal en Chrome headless se cierra nada más abrirse («[terminal cerrada]»); comprobar con un navegador normal y, si pasa, por qué.
+- Para el kit: `pendientes.md` trae textos cortados («solo trae el títu»); avisar en profesor-kit.
 - Las skills de los plugins de diseño no cargan en una sesión abierta antes de sincronizarlos: se leyeron de `~/.claude/plugins/synced/` y se aplicaron a mano; para la próxima crítica, abrir sesión nueva.
 - Fase 7: analizar a fondo el chat como *channel* de Claude Code (el oficial `fakechat`: chat web en localhost conectado a la sesión local). Si es viable, la fase 10 se adelanta a la 7.
 - Fase 9: en cuanto haya una máquina Windows, probar `npm install` + `node-pty` y los ficheros CRLF.
@@ -20,7 +21,7 @@
 
 **Contexto:** las decisiones y el orden de fases están abajo; los detalles del kit (formatos, herramientas, reglas) viven en el repo del kit.
 
-**Rondas de abogado del diablo:** 2026-10-07, sobre el punto 0 y el prototipo, 7 objeciones → reorden de fases (§7), tabla caso → kit (§4b) y decisiones nuevas (§6).
+**Rondas de abogado del diablo:** 2026-10-07, sobre el punto 0 y el prototipo, 7 objeciones → reorden de fases (§7), tabla caso → kit (§4b) y decisiones nuevas (§6) · 2026-10-07, sobre la crítica de diseño, 7 objeciones → todas atendidas (ver el final de `docs/diseno/critica-2026-10-07.md`).
 
 ## 1. Qué es
 
@@ -59,7 +60,7 @@ pinta como lo que es.
 | 5 | No entiende algo, o en clase dijeron otra cosa | **Comentar un bloque**: queda anotado en la nota; el profesor lo recoge en la siguiente sesión. Un panel reúne todos los comentarios |
 | 6 | Estudia una sesión | Lee, salta a sus conceptos, abre el **ejercicio interactivo** dentro de la app, marca la sesión como **estudiada** |
 | 7 | Repasa flashcards | **Modo tarjeta**: pregunta, destapar, "la sabía / no la sabía" |
-| 8 | Hace un examen | **Formulario completo** con botón **Validar**: la app escribe las respuestas y corrige con la herramienta del kit, sin pasar por el chat. Los de respuesta libre se **entregan** y los corrige el profesor |
+| 8 | Hace un examen | **Formulario completo** con botón **Corregir**: la app escribe las respuestas y corrige con la herramienta del kit, sin pasar por el chat. Los de respuesta libre se **entregan** y los corrige el profesor |
 | 9 | Se organiza | **Tareas**: todas las casillas del curso agrupadas por nota, más su lista propia. Marcar aquí escribe en la nota |
 | 10 | Habla con el profesor | **Terminal integrada**, bonita, abierta en el cuaderno, con botón "Profesor". Más adelante, **chat** |
 | 11 | Deja una clase nueva | Ve el **inbox** y lo que aún no está preparado; "Preparar con el profesor" |
@@ -119,7 +120,7 @@ Capturas del prototipo (en `docs/capturas-prototipo/`), tal como salió, antes d
 | Plataforma | Navegador + proceso local en Node. Sin app de escritorio empaquetada |
 | Editor | Por bloques, en Markdown. Sin WYSIWYG ni vista previa partida |
 | Anotar | Comentarios anclados a un bloque, dentro de la nota |
-| Exámenes | Formulario HTML completo con Validar. El chat no genera nada |
+| Exámenes | Formulario HTML completo con un botón **Corregir** (2026-10-07: antes «Validar»; el verbo es el del kit y el del resultado). El chat no genera nada |
 | Agente | **Terminal en v1.** El chat con el profesor después, como modo opcional. El Agent SDK queda descartado (exige API key de pago, no admite la suscripción). Vía elegida (2026-10-07): la app como *channel* de Claude Code, igual que el channel oficial `fakechat` (chat web en localhost conectado a la sesión local): el chat de la app envía a la sesión que la propia app arranca en su terminal y pinta las respuestas; misma sesión, mismo contexto (AGENTS.md, skills, herramientas), suscripción sin API key. Codex, por comprobar |
 | Cuaderno con kit | Lo es si tiene `.kit/motor.json`. Con kit, todo pasa por sus herramientas. Si tiene `estudio/` y `config/` pero no `.kit/` (una salida del kit sin motor), la app lee sus formatos (tareas, exámenes…) pero no hay Profesor ni Guardar. Sin nada de eso, es una carpeta de notas: solo lectura y edición, Tareas se limita a `tareas.md`, y Guardar hace commit; el push se confirma |
 | Guardar | Un botón. En un cuaderno con kit, llama a `guardar.js "<mensaje>"` (comprueba, apunta en el diario, sube); nunca git a mano. El mensaje lo propone la app a partir de los ficheros cambiados y se puede editar. Un error o un conflicto de `--traer` no lo resuelve la app: enseña la salida y ofrece abrir la terminal con el profesor. En una carpeta sin kit que sea un repo: `git add -A`, commit y push si hay remoto, sin preguntar (como un autosave); traer es `pull --ff-only`; deshacer es `revert` del último commit, siempre enseñando antes qué volvería. Credenciales: las de git de la máquina |
